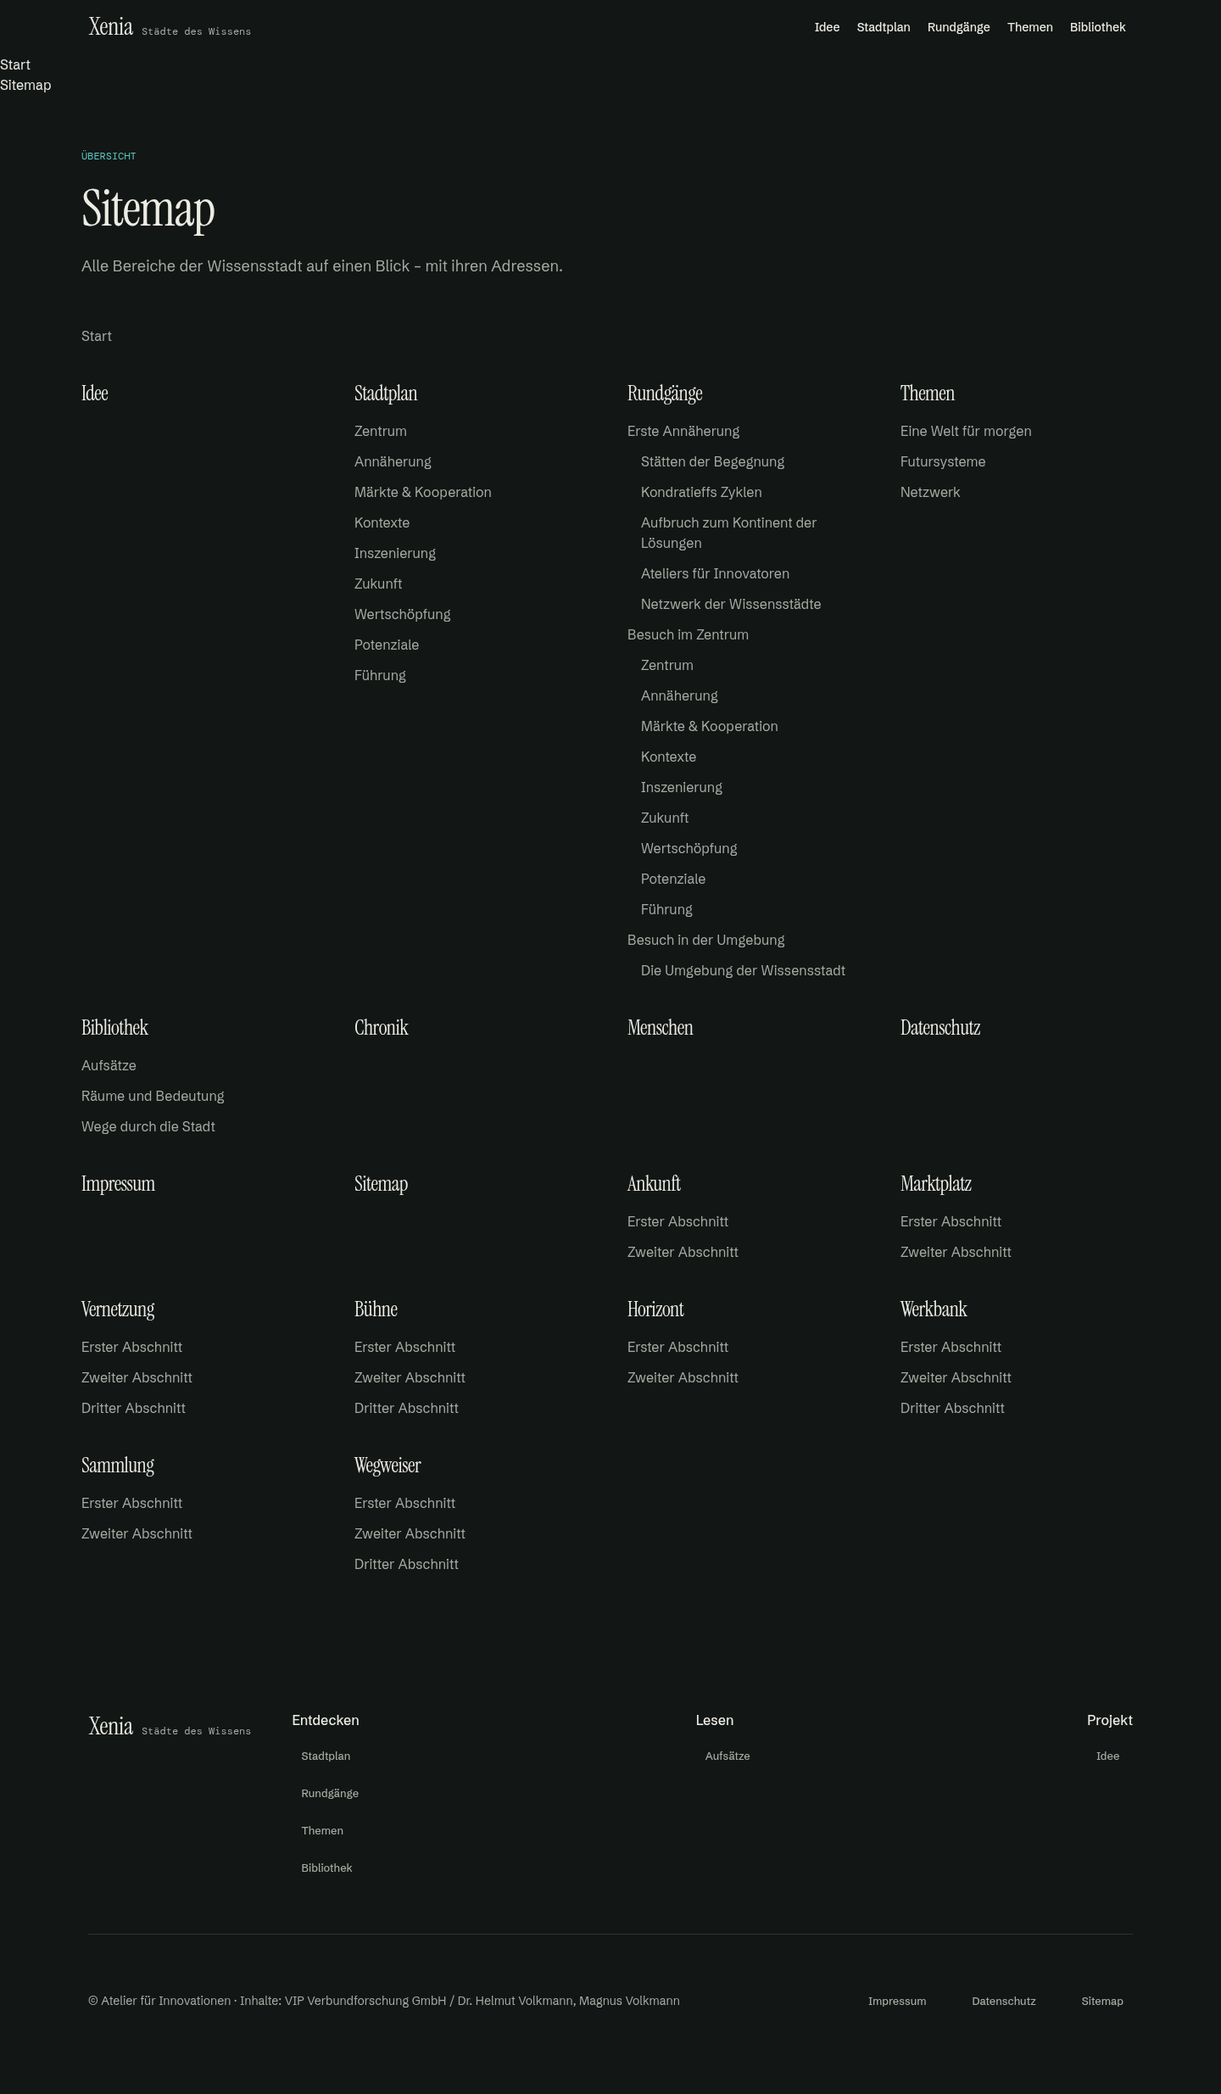
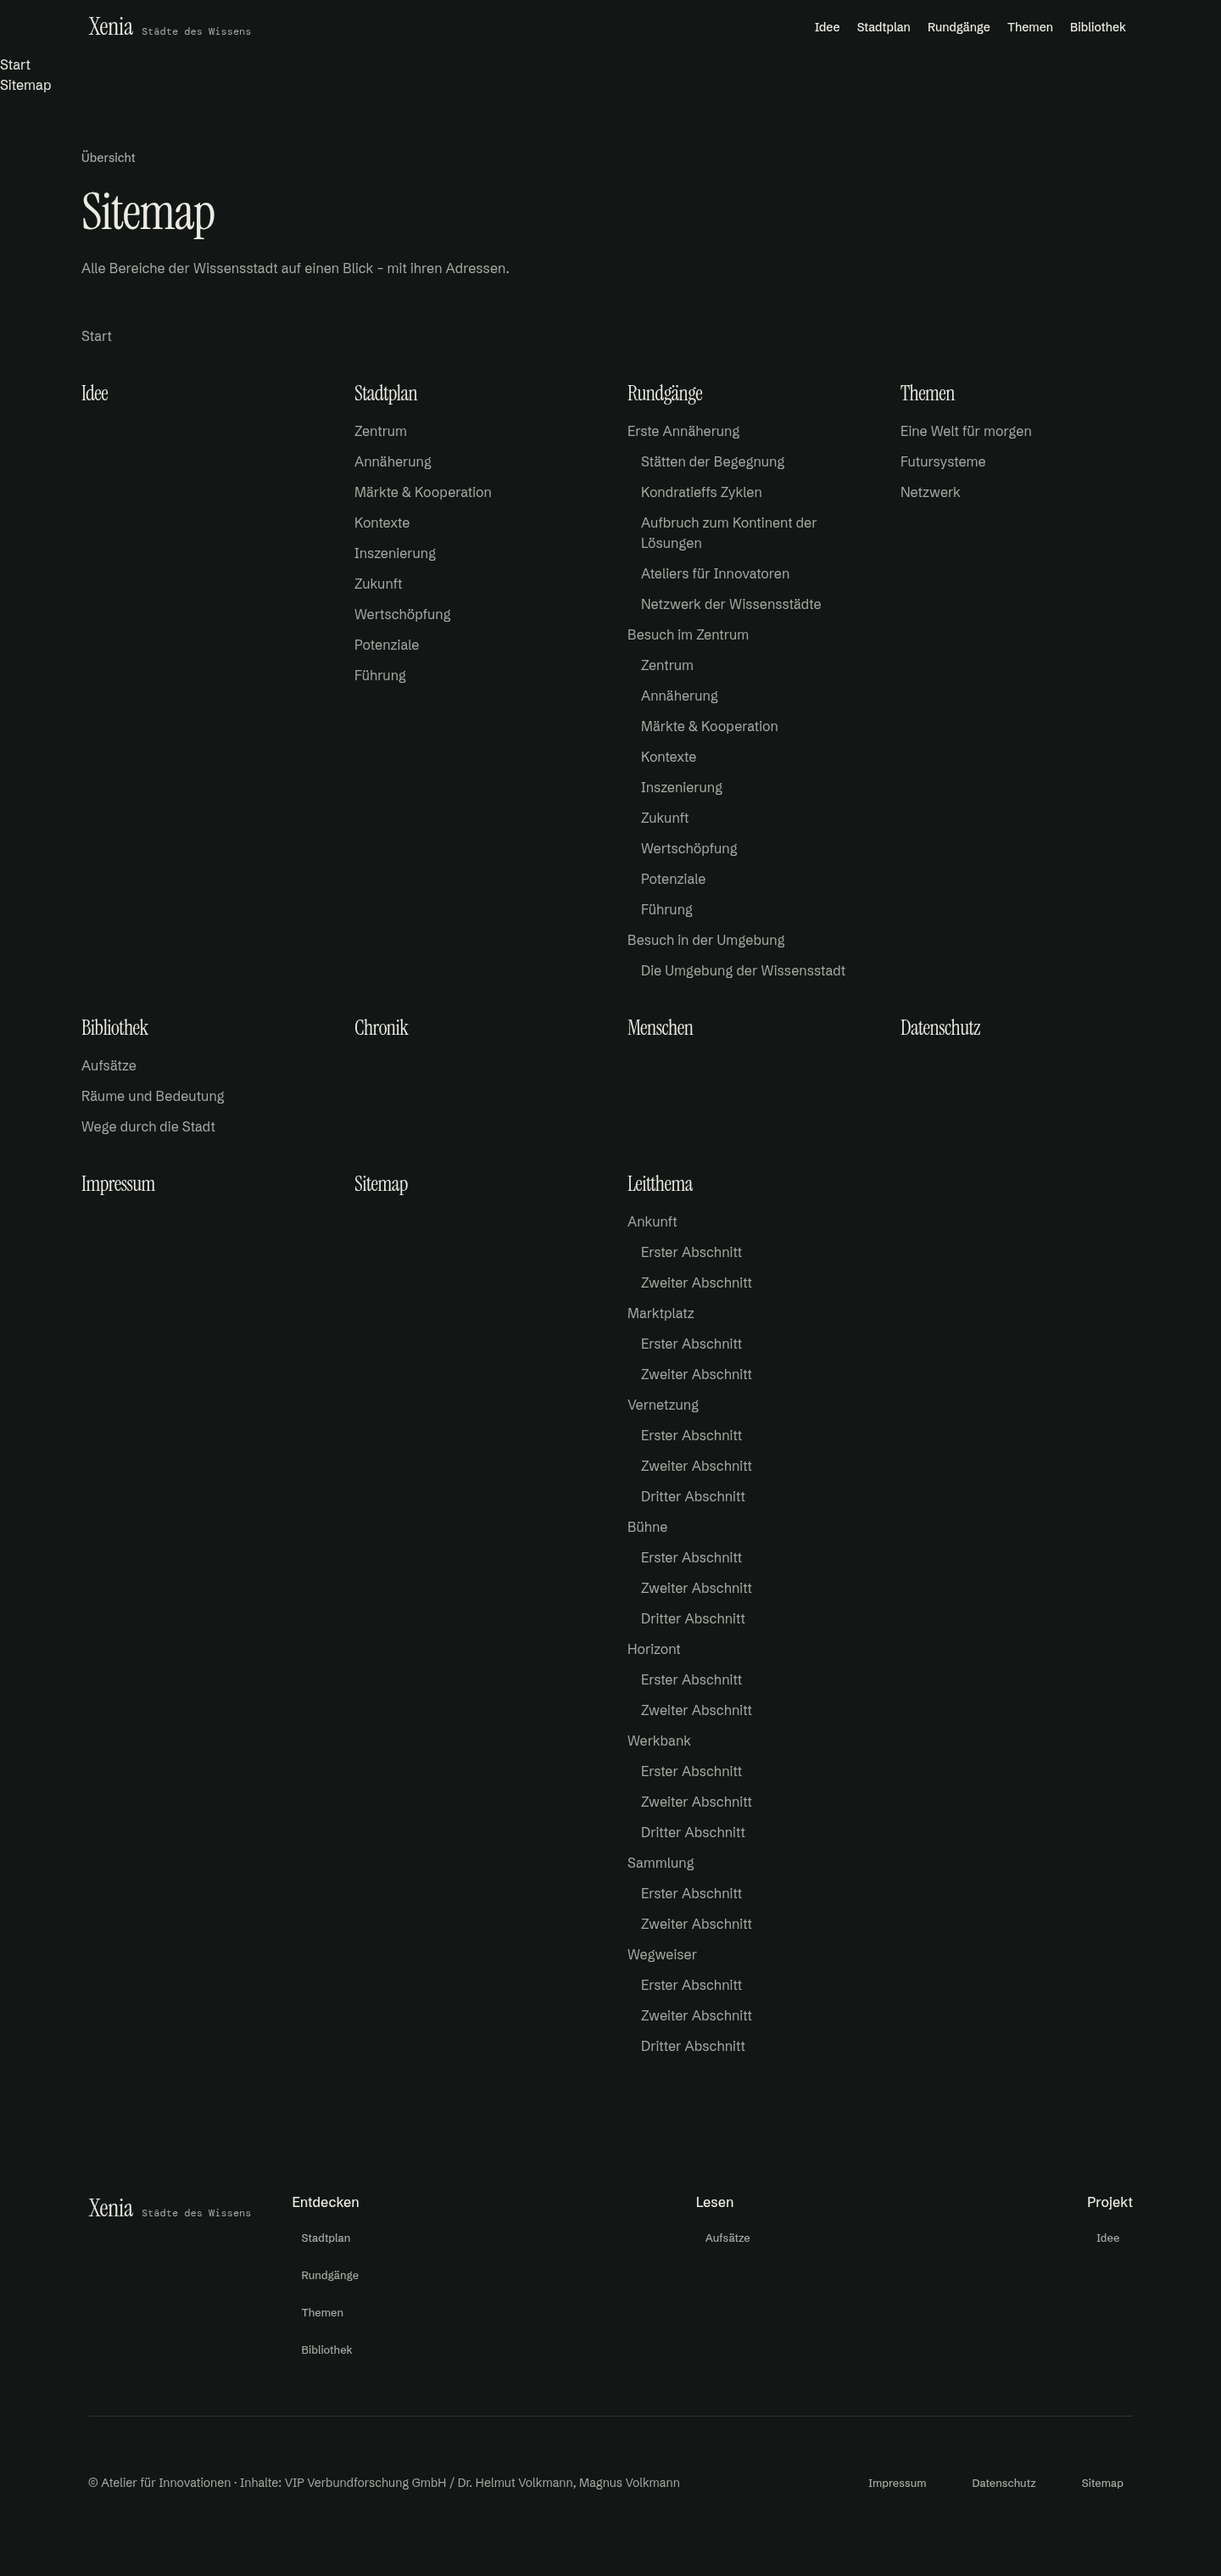
fix(sitemap): group leftover area content into one column, validate the Sitemap Seite's tagline (issue #136)
Review on the previous commit found two blocking issues:

- SitemapList read the Sitemap tree's root children directly as grid
  columns. For an area with no published Seite of its own (only the
  Leitthema today — its Kapitel sit under leitthema/ by design, not under
  a Seite), listSitemap's attach() falls back to the root, so every one of
  that area's documents became its own column — 8 extra one-item columns
  for the 8 Kapitel, instead of one. SitemapList now cross-references the
  real Navigation tree's top-level Seiten to tell a real column (its own
  page, so a linked heading) apart from that leftover content, grouped
  into one more column instead, headed in plain text since it has no page
  of its own.
- SitemapHub threw a bare Error for a missing tagline (the Sitemap Seite's
  kicker) instead of the ContentValidationError{file,field,reason} shape
  every other content problem uses, so content:check wouldn't catch it
  and the crash would only surface at render. graph.ts now validates it
  while building the Seite list, so content:check and the build both
  catch it; SitemapHub no longer needs its own check.

Spec conflict: the issue's "columns by the top-level groups of the
Navigation tree (four on desktop...)" reads, against this content's real
Navigation tree (10 top-level Seiten, not 4 named groups anywhere in the
data), as a responsive grid description (four across at `lg`), not a
count of semantic groups — there's no "Entdecken/Lesen/Projekt/Service"
[…]

diff --git a/src/components/navigation/sitemap-list.tsx b/src/components/navigation/sitemap-list.tsx
@@ -25,19 +25,33 @@ function SitemapBranch({ nodes }: { nodes: readonly NavigationNode[] }) {
 	)
 }
 
-// One column per top-level Navigation group (issue #136): the group's own
+// One column per top-level Navigation group (issue #136): a real group's own
 // page is the column heading (it's a published page too, so it still needs
-// its own link), its own pages nested below exactly as SitemapBranch always
-// nested them.
-function SitemapColumn({ group }: { group: NavigationNode }) {
+// its own link); a group with no page of its own (`url` undefined — the
+// Leitthema group below) gets a plain-text heading instead, since there's no
+// page to link it to. Either way, its own pages nest below exactly as
+// SitemapBranch always nested them.
+function SitemapColumn({
+	title,
+	url,
+	nodes,
+}: {
+	title: string
+	url?: string
+	nodes: readonly NavigationNode[]
+}) {
 	return (
 		<div data-slot="sitemap-column" className="flex flex-col gap-4">
 			<h2 className="heading-sm text-foreground">
-				<Link href={group.url} className="hover:underline">
-					{group.title}
-				</Link>
+				{url ? (
+					<Link href={url} className="hover:underline">
+						{title}
+					</Link>
+				) : (
+					title
+				)}
 			</h2>
-			{group.children.length > 0 && <SitemapBranch nodes={group.children} />}
+			{nodes.length > 0 && <SitemapBranch nodes={nodes} />}
 		</div>
 	)
 }
@@ -47,11 +61,25 @@ function SitemapColumn({ group }: { group: NavigationNode }) {
 // (SitemapHub), not handed items by page.tsx, so there is no parent already
 // holding them. Restyled, not replaced, for the Figma composition (issue
 // #136): the Sitemap tree's root (the Startseite) gets its own link above
-// the grid; its children — one top-level group per area (issue #60) —
-// become the grid's columns, four across at `lg`, down to one stacked
-// column below `md` (Kartei design system, Breakpoints).
+// the grid; its children become the grid's columns, four across at `lg`,
+// down to one stacked column below `md` (Kartei design system, Breakpoints).
+//
+// `graph.sitemap`'s root children are the real top-level Seiten (Navigation
+// order) plus, for an area with no published Seite of its own (issue #60's
+// `attach()` then falls back to the root — today only the Leitthema, whose
+// Kapitel sit directly under `leitthema/`, never under a Seite, by design:
+// content-layer.md), every one of that area's documents individually. Reading
+// `root.children` as-is would turn each of those into its own column; cross-
+// referencing `graph.navigation`'s own top-level Seiten tells real columns
+// (their own page, so a linked heading) apart from that leftover content,
+// grouped into one more column instead, headed in plain text since it has no
+// page of its own.
 function SitemapList({ className, ...props }: React.ComponentProps<'nav'>) {
-	const root = contentGraph().sitemap
+	const graph = contentGraph()
+	const root = graph.sitemap
+	const topLevelSeiteIds = new Set(graph.navigation.children.map((seite) => seite.id))
+	const columns = root.children.filter((child) => topLevelSeiteIds.has(child.id))
+	const leftover = root.children.filter((child) => !topLevelSeiteIds.has(child.id))
 
 	return (
 		<nav
@@ -64,9 +92,17 @@ function SitemapList({ className, ...props }: React.ComponentProps<'nav'>) {
 				{root.title}
 			</Link>
 			<div className="grid grid-cols-1 gap-10 md:grid-cols-2 lg:grid-cols-4">
-				{root.children.map((group) => (
-					<SitemapColumn key={group.id} group={group} />
+				{columns.map((column) => (
+					<SitemapColumn
+						key={column.id}
+						title={column.title}
+						url={column.url}
+						nodes={column.children}
+					/>
 				))}
+				{leftover.length > 0 && (
+					<SitemapColumn title={t('navigation.sitemapLeitthema')} nodes={leftover} />
+				)}
 			</div>
 		</nav>
 	)

diff --git a/src/lib/content/graph.ts b/src/lib/content/graph.ts
@@ -6,6 +6,7 @@ import { validateViertelTeaserReferences } from './body'
 import { flattenSet, lookupSet } from './documents'
 import {
 	ABSCHNITT_ORDER_FIELD,
+	ContentValidationError,
 	RUNDGANG_ORDER_FIELD,
 	STATION_ORDER_FIELD,
 	VIERTEL_ORDER_FIELD,
@@ -28,7 +29,7 @@ import { buildNavigation } from './navigation'
 import { shortTitleOrTitle } from './presentation'
 import { orderRundgaenge, summarizeRundgang } from './rundgang'
 import { stationOrderSchema } from './schemas'
-import { listSitemap } from './sitemap'
+import { listSitemap, SITEMAP_SEITE_ID } from './sitemap'
 import { orderStationen } from './station'
 import { resolveThemen } from './thema'
 import { buildTrail } from './trail'
@@ -258,10 +259,21 @@ export function buildContentGraph(
 
 	const loaded = loadDocuments(contentDir)
 
-	const allSeiten: Seite[] = loaded.seite.map(({ file: _file, ...document }) => ({
-		...document,
-		url: pathUrl(document.id),
-	}))
+	const allSeiten: Seite[] = loaded.seite.map(({ file, ...document }) => {
+		// The Sitemap Seite's own Seitenkopf (issue #136, SitemapHub) reads
+		// `tagline` as its kicker, unlike every other Seite, which renders fine
+		// without one (content-layer.md) — checked here, not just left to crash
+		// at render, so a missing one fails `content:check` and the build with
+		// the one shape every content problem fails in (ContentValidationError).
+		if (document.id === SITEMAP_SEITE_ID && !document.tagline) {
+			throw new ContentValidationError(
+				file,
+				'tagline',
+				'the Sitemap Seite has no tagline, its Seitenkopf kicker',
+			)
+		}
+		return { ...document, url: pathUrl(document.id) }
+	})
 	const seiten = allSeiten.filter(isVisible)
 	const navigation = buildNavigation(allSeiten, loadMeta(contentDir), isVisible)
 	const site = loadSite(contentDir)

diff --git a/src/components/navigation/sitemap-hub.tsx b/src/components/navigation/sitemap-hub.tsx
@@ -19,9 +19,13 @@ interface SitemapHubProps extends React.ComponentProps<'div'> {
 // generated Sitemap list. Nothing else (the issue's own "What to build"): no
 // previous/next, since a utility page like this has no reading-order
 // neighbour.
+//
+// The Sitemap Seite always has a `tagline` by the time this renders: graph.ts
+// enforces it while building the graph (a `ContentValidationError`, same as
+// every other content problem — content-layer.md), so `content:check` and the
+// build both catch a Sitemap Seite missing one instead of this component.
 function SitemapHub({ seite, className, ...props }: SitemapHubProps) {
 	const graph = contentGraph()
-	if (!seite.tagline) throw new Error('SitemapHub: the Sitemap Seite has no tagline (kicker)')
 
 	return (
 		<div data-slot="sitemap-hub" className={cn(className)} {...props}>

diff --git a/src/lib/content/graph.test.ts b/src/lib/content/graph.test.ts
@@ -161,6 +161,20 @@ describe('buildContentGraph', () => {
 				'rundgaenge/ein-rundgang/eine-station',
 			])
 		})
+
+		it('fails when the Sitemap Seite has no tagline, its Seitenkopf kicker (issue #136), naming the file and the field', () => {
+			expect.assertions(4)
+
+			try {
+				buildContentGraph(path.join(fixturesDir, 'sitemap-seite-no-tagline'))
+			} catch (error) {
+				expect(error).toBeInstanceOf(ContentValidationError)
+				const validationError = error as ContentValidationError
+				expect(validationError.file).toBe('sitemap/index.mdx')
+				expect(validationError.field).toBe('tagline')
+				expect(validationError.reason).toMatch(/tagline/i)
+			}
+		})
 	})
 
 	describe('Drafts', () => {

diff --git a/src/components/navigation/sitemap-list.test.tsx b/src/components/navigation/sitemap-list.test.tsx
@@ -43,6 +43,15 @@ describe('SitemapList', () => {
 		expect(stadtColumn).toContain('>Ein Viertel<')
 	})
 
+	it('groups the Leitthema’s Kapitel under one column instead of one column per Kapitel (issue #60’s root fallback)', () => {
+		const html = render()
+
+		const headings = html.match(/<h2[^>]*>[\s\S]*?<\/h2>/g) ?? []
+		expect(headings).toHaveLength(3)
+		expect(headings.some((heading) => heading.includes('Ein Kapitel'))).toBe(false)
+		expect(headings.some((heading) => heading.includes('Leitthema'))).toBe(true)
+	})
+
 	it('nests a deeper branch — a Kapitel’s own Abschnitt — under that Kapitel, not flattened into its column', () => {
 		const html = render()
 

diff --git a/src/lib/dictionary/de.ts b/src/lib/dictionary/de.ts
@@ -14,6 +14,7 @@ export const de = {
 	'layout.footerMenu': 'Fußzeilen-Navigation',
 	'layout.footerLegalMenu': 'Rechtliche Hinweise',
 	'navigation.sitemap': 'Sitemap',
+	'navigation.sitemapLeitthema': 'Leitthema',
 	'stadt.navigation': 'Viertel und Zentrum der Wissensstadt',
 	'viertel.numberedTitle': '{number} {title}',
 	'viertel.steckbrief.prozessansatz': 'Prozessansatz',

diff --git a/docs/reference/content/content-layer.md b/docs/reference/content/content-layer.md
@@ -50,7 +50,7 @@ A document's type is decided by where its file sits under `src/content`, not by 
 | Station   | `rundgaenge/<rundgang>/<slug>/`             | `ortId` (optional reference to an Ort), `lage` (optional)                                                                                                                                            |
 | Thema     | `themen/<slug>/` (Leitthema and Themen-Ort) | `kapitelId` (optional reference), `leitsatz` (optional), `zitat` (optional, Leitthema's own), `weiterfuehrendIds` (optional list of references, Themen-Ort's own), `teaser` (optional, translatable) |
 
-- `tagline`, `heading` and `intro` (issue #129, epic #128) are the Start document's own Hero copy, and `zitat` its own testimonial, in the same shared Zitat shape the Leitthema uses (below) — reused, not redeclared. They're optional fields on `seiteFrontmatterSchema` rather than a schema of their own, since a document's type is decided by its path (not a frontmatter field) and every Seite already shares one schema; the schema can't single out the root Seite (ID `''`) by its frontmatter alone, so any Seite could set them, but only the Startseite reads `heading`, `intro` and `zitat`; the Sitemap Seite's own layout (issue #136) reads `tagline` too, as its kicker. A Seite without them still builds; the Startseite renders only the ones that are set, and no longer renders its MDX body.
+- `tagline`, `heading` and `intro` (issue #129, epic #128) are the Start document's own Hero copy, and `zitat` its own testimonial, in the same shared Zitat shape the Leitthema uses (below) — reused, not redeclared. They're optional fields on `seiteFrontmatterSchema` rather than a schema of their own, since a document's type is decided by its path (not a frontmatter field) and every Seite already shares one schema; the schema can't single out the root Seite (ID `''`) by its frontmatter alone, so any Seite could set them, but only the Startseite reads `heading`, `intro` and `zitat`; the Sitemap Seite's own layout (issue #136) reads `tagline` too, as its kicker. A Seite without them still builds — except the Sitemap Seite's own `tagline`, which `content:check` and the build both require (graph.ts), since its Seitenkopf has no fallback for a missing kicker; the Startseite renders only the ones that are set, and no longer renders its MDX body.
 - A Kapitel belongs to the Leitthema, not to the Viertel it is set in, so its files sit under `leitthema/`.
 - A Thema without `kapitelId` is the Leitthema; with one it is a Themen-Ort branching off that Kapitel.
 - The Steckbrief is a nested object: `prozessansatz`, `bauform`, `prozessdokument`, `imStadtzentrum`.
